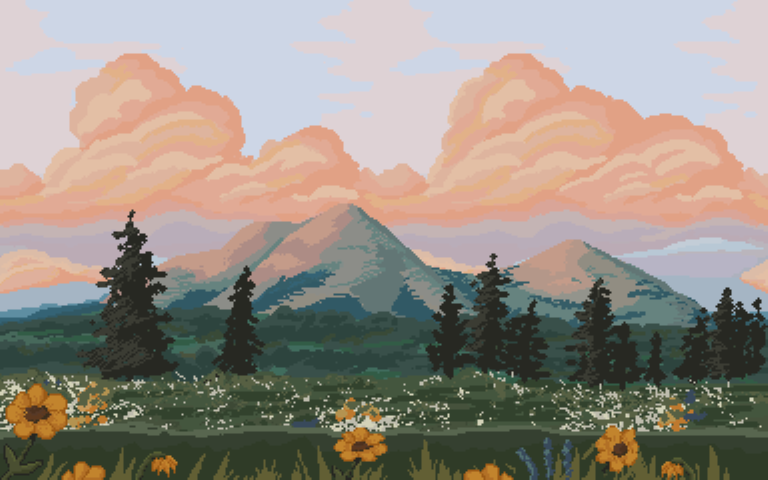
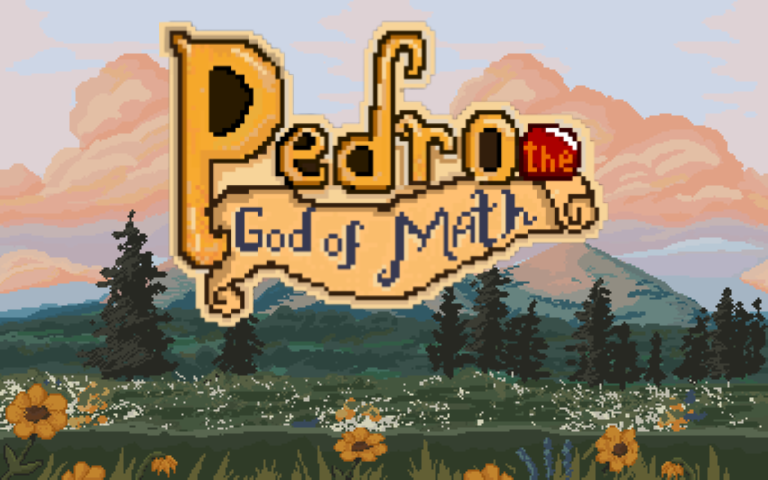
Modificações no Design / Finalização da tela de Instruções
O título da tela inicial foi alterado. A fonte utilizada nos textos foram alterados. A tela de instruções foi finalizado, modificando a posição do texto e adequando-se a nova tela de fundo

Changed region(s): [[0.1875, 0.0312, 0.8125, 0.6875]]

diff --git a/Experimentos/luis/Test/screens.py b/Experimentos/luis/Test/screens.py
@@ -9,7 +9,7 @@ HEIGHT = 600
 
 # Música e efeitos sonoros 
 pygame.mixer.music.load('../assets/sounds/Soundtrack_menu.mp3') # Música de Background 
-pygame.mixer.music.play() 
+pygame.mixer.music.play(-1) # O -1 foi colcoado para estar em loop 
 
 CLICK_SOUND = pygame.mixer.Sound('../assets/sounds/clicked_sound.mp3') # Efeito sonoro de click
 
@@ -19,8 +19,8 @@ bg_img = pygame.image.load('../assets/images/main_background.png')
 bg_img = pygame.transform.scale(bg_img,(WIDTH,HEIGHT))
 
 # Fonte 
-font_path = '../assets/font\Pixeled.ttf'
-font = pygame.font.Font(font_path, 20)
+font_path = '../assets/font\Pixeled.otf'
+font = pygame.font.Font(font_path, 30)
 
 def write_text(text_content, font_path, color, pos_x, pos_y, font_size): # Função para escrever texto na tela 
     font = pygame.font.Font(font_path, font_size)
@@ -44,18 +44,20 @@ def instructions_screen(): # A tela de instruções
         BUTTON_IMAGE = pygame.image.load("../assets\images\exit_icon.png")
         BUTTON_IMAGE = pygame.transform.scale(BUTTON_IMAGE, (30, 30))
 
-        QUIT_BUTTON = Button(BUTTON_IMAGE, 700, 87, font, "")
+        QUIT_BUTTON = Button(BUTTON_IMAGE, 690, 127, font, "")
+        QUIT_BUTTON.interaction_text(mouse_pos)
         QUIT_BUTTON.update(screen)
                
-        STRING_LIST = ["O objetivo do jogo é passar pelo labirinto", "coletando os itens dispostos no mapa.", "Para jogar, utilize as teclas W A S D para movi-", "mentar o personagem. Divirta-se :)"] 
-        initial_x = 110
-        initial_y = 150
-        
-        write_text("INSTRUÇOES", font_path, (0,0,0), 110, 80, 30)
+        STRING_LIST = ["O objetivo do jogo e passar pelo labirinto co-", "letando os itens dispostos no mapa. Para jo-,", "gar utilize as teclas WASD para movimentar", "o personagem. O quantidade coletada sera", "mostrada na tela. Divirta-se! :)"] 
+        initial_x = 200
+        initial_y = 170
+
+          
+        write_text("INSTRUCOES", font_path, (0,0,0), 200, 110, 50)
 
         # Loop criado para printar cada string para simular a quebra de linha
         for line in STRING_LIST:
-            write_text(line, font_path, (0,0,0), initial_x, initial_y, 15)
+            write_text(line, font_path, (0,0,0), initial_x, initial_y, 30)
             initial_y += 30
 
         for event in pygame.event.get():
@@ -64,6 +66,7 @@ def instructions_screen(): # A tela de instruções
                 exit()
             if event.type == pygame.MOUSEBUTTONDOWN:
                 if QUIT_BUTTON.clicked(mouse_pos):
+                    pygame.mixer.Sound.play(CLICK_SOUND)
                     main_menu()
 
         pygame.display.update()
@@ -74,15 +77,16 @@ def main_menu():
     # Título e Ícone
     icon = pygame.image.load('../assets\images\icon.png')
     pygame.display.set_icon(icon)
-    
     muted = False # Variável para detectar se a música encontra-se mutada
     button_image_path = "../assets\images\start_button.png"
     button_image_music_path = "../assets\images\music_icon.png"
-    
+
     while True:
         screen.blit(bg_img, (0,0))
         mouse_pos = pygame.mouse.get_pos()
         
+
+
         buttons_list = []
 
         # Imagem do botão (e a sua conversão para o tamanho ideal)
@@ -94,11 +98,11 @@ def main_menu():
         BUTTON_IMAGE_MUSIC = pygame.transform.scale(BUTTON_IMAGE_MUSIC, (41, 41))
 
         # Botão de iniciar o jogo
-        START_BUTTON = Button(BUTTON_IMAGE, 200, 500, font, "INICIAR")
+        START_BUTTON = Button(BUTTON_IMAGE, 250, 500, font, "INICIAR")
         buttons_list.append(START_BUTTON)
         
         # Botão de fechar o jogo
-        INSTRUCTIONS_BUTTON = Button(BUTTON_IMAGE, 600, 500, font, "INSTRUÇOES")
+        INSTRUCTIONS_BUTTON = Button(BUTTON_IMAGE, 650, 500, font, "INSTRUCOES")
         buttons_list.append(INSTRUCTIONS_BUTTON)
 
         # Botão de mutar a música

diff --git a/Experimentos/luis/Test/main.py b/Experimentos/luis/Test/main.py
@@ -4,7 +4,5 @@ from pygame.locals import *
 from screens import *
 
 
-# Tela e background image
-
 main_menu()
 
